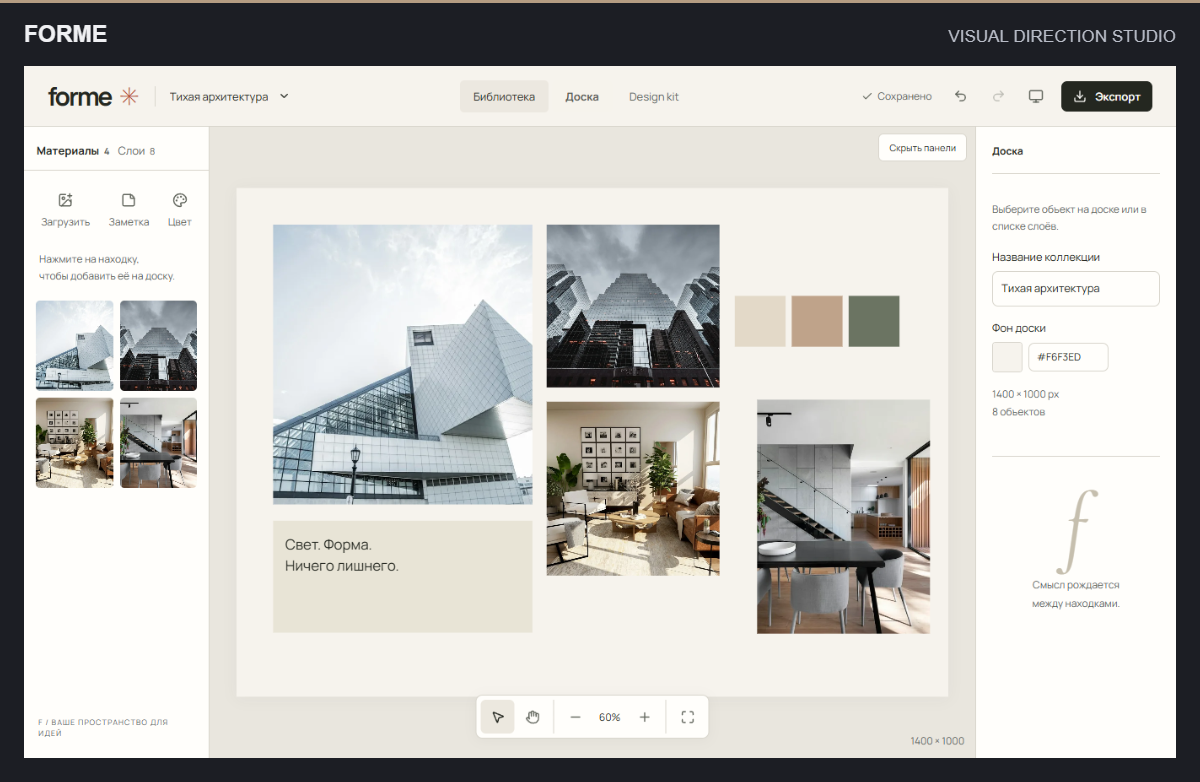
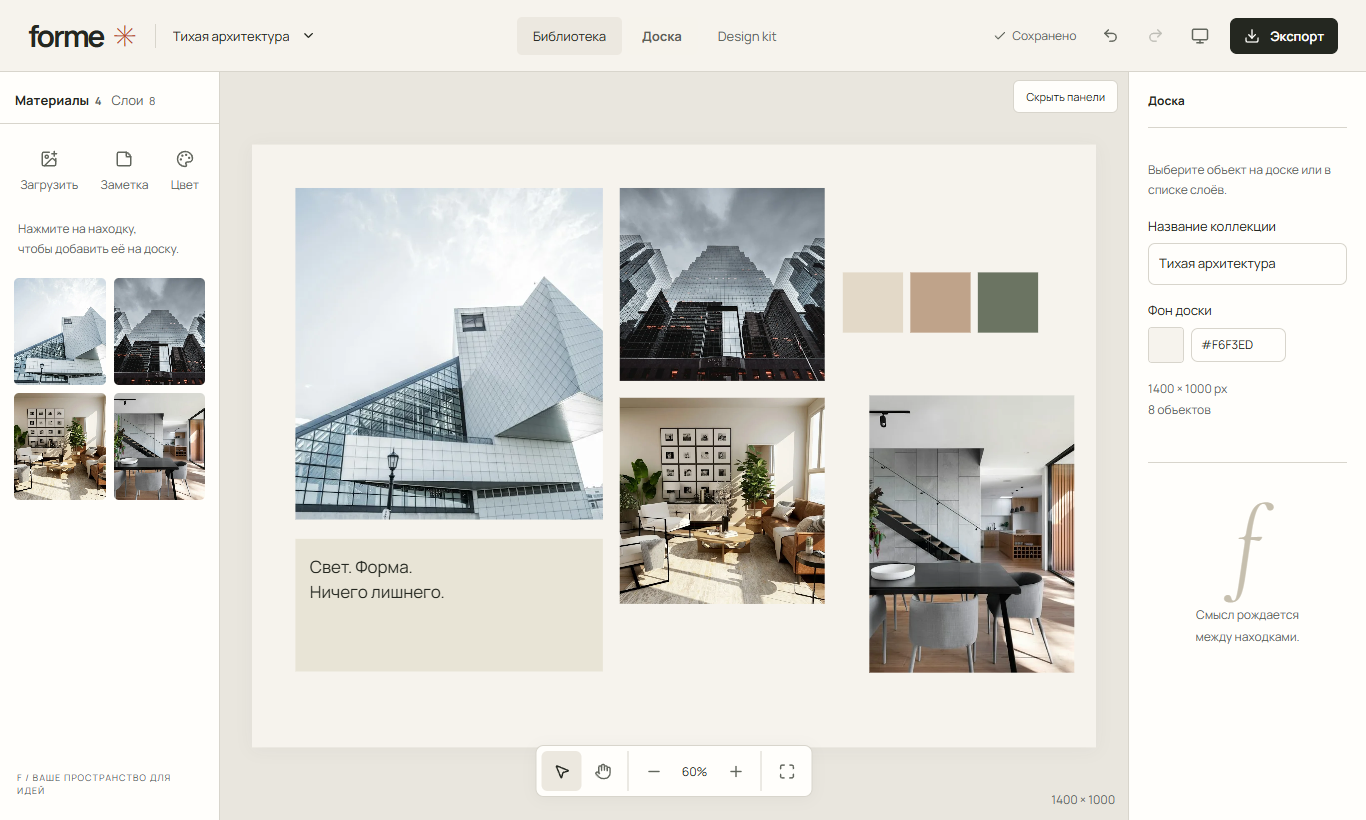
Use distinct gallery asset paths to bypass stale GitHub image cache

diff --git a/assets/README.md b/assets/README.md
@@ -2,7 +2,7 @@
 
 - `banner-dark.png` / `banner-light.png`: original matching banners rasterized from the corresponding SVG sources. `scripts/build-banner.mjs` generates the vector artwork using the portfolio's original mathematical ribbon geometry. No third-party artwork, stock illustration, remote font, or image-generation service was used. Text uses system Arial/Helvetica.
 - `perch.png`: fresh capture of the [live PERCH studio](https://seoshiro.github.io/perch-studio/), verified against source commit `952559edaf2d036d9e2205d733cfbd6a220b5a78` on 1 October 2026. Furnished demo room and original parametric furniture. [MIT source and license](https://github.com/seoshiro/perch-studio), [third-party notices](https://github.com/seoshiro/perch-studio/blob/main/docs/THIRD_PARTY.md).
-- `selvedge.png`: the actual [SELVEDGE workroom screenshot](https://github.com/seoshiro/selvedge-studio/blob/29b0441687f20498896f5d30b845fac5107f53fd/docs/gallery/02-studio.png), with original fictional apparel artwork. [Project provenance](https://github.com/seoshiro/selvedge-studio/blob/main/docs/PROVENANCE.md).
-- `forme.png`: actual [FORME editor screenshot](https://github.com/seoshiro/forme-studio/blob/main/docs/media/editor.png), using the fictional demo collection. Photography and font credits remain in the [project asset notices](https://github.com/seoshiro/forme-studio/blob/main/ASSETS.md).
+- `selvedge-workroom.png`: the actual [SELVEDGE workroom screenshot](https://github.com/seoshiro/selvedge-studio/blob/29b0441687f20498896f5d30b845fac5107f53fd/docs/gallery/02-studio.png), with original fictional apparel artwork. [Project provenance](https://github.com/seoshiro/selvedge-studio/blob/main/docs/PROVENANCE.md).
+- `forme-moodboard.png`: actual [FORME editor screenshot](https://github.com/seoshiro/forme-studio/blob/main/docs/media/editor.png), using the fictional demo collection. Photography and font credits remain in the [project asset notices](https://github.com/seoshiro/forme-studio/blob/main/ASSETS.md).
 
-The three screenshots are proportionally resized within matching original dark frames, without cropping or changing product content. Original full-resolution captures are also retained in the portfolio's `docs/originals/`. These are independent product previews, not customer work. They contain no private files or user uploads.
+The three screenshots are proportionally resized within matching original dark frames, without cropping or changing product content. Distinct filenames avoid serving older thumbnails from GitHub's image cache. The previous `selvedge.png` and `forme.png` captures are retained unchanged, and original full-resolution captures are also retained in the portfolio's `docs/originals/`. These are independent product previews, not customer work. They contain no private files or user uploads.

diff --git a/README.md b/README.md
@@ -26,7 +26,7 @@ I build browser tools for creative work and everyday problems. I care about inte
 
 **One graphic, a whole collection.** An apparel workroom for artwork placement, garment colors, and named revision comparison. Make a collection PNG, a PDF visual proof, or an editable project to continue later.
 
-[![Actual SELVEDGE workroom with an original After Hours tee illustration, artwork placement controls, and garment colorways](assets/selvedge.png)](https://seoshiro.github.io/selvedge-studio/)
+[![Actual SELVEDGE workroom with an original After Hours tee illustration, artwork placement controls, and garment colorways](assets/selvedge-workroom.png)](https://seoshiro.github.io/selvedge-studio/)
 
 **[Open SELVEDGE](https://seoshiro.github.io/selvedge-studio/)** · [Source](https://github.com/seoshiro/selvedge-studio) · [Case study](https://seoshiro.github.io/projects/selvedge.html)
 
@@ -36,7 +36,7 @@ I build browser tools for creative work and everyday problems. I care about inte
 
 **From references to a direction.** Gather images and notes, compose a moodboard, and turn its colors and typography into a design kit. Take away PNG, CSS variables, design tokens, and a portable project.
 
-[![Actual FORME moodboard editor with architectural references, notes, color swatches, and typography](assets/forme.png)](https://forme-studio-coral.vercel.app/)
+[![Actual FORME moodboard editor with architectural references, notes, color swatches, and typography](assets/forme-moodboard.png)](https://forme-studio-coral.vercel.app/)
 
 **[Open FORME](https://forme-studio-coral.vercel.app/)** · [Source](https://github.com/seoshiro/forme-studio) · [Case study](https://seoshiro.github.io/projects/forme.html)
 
